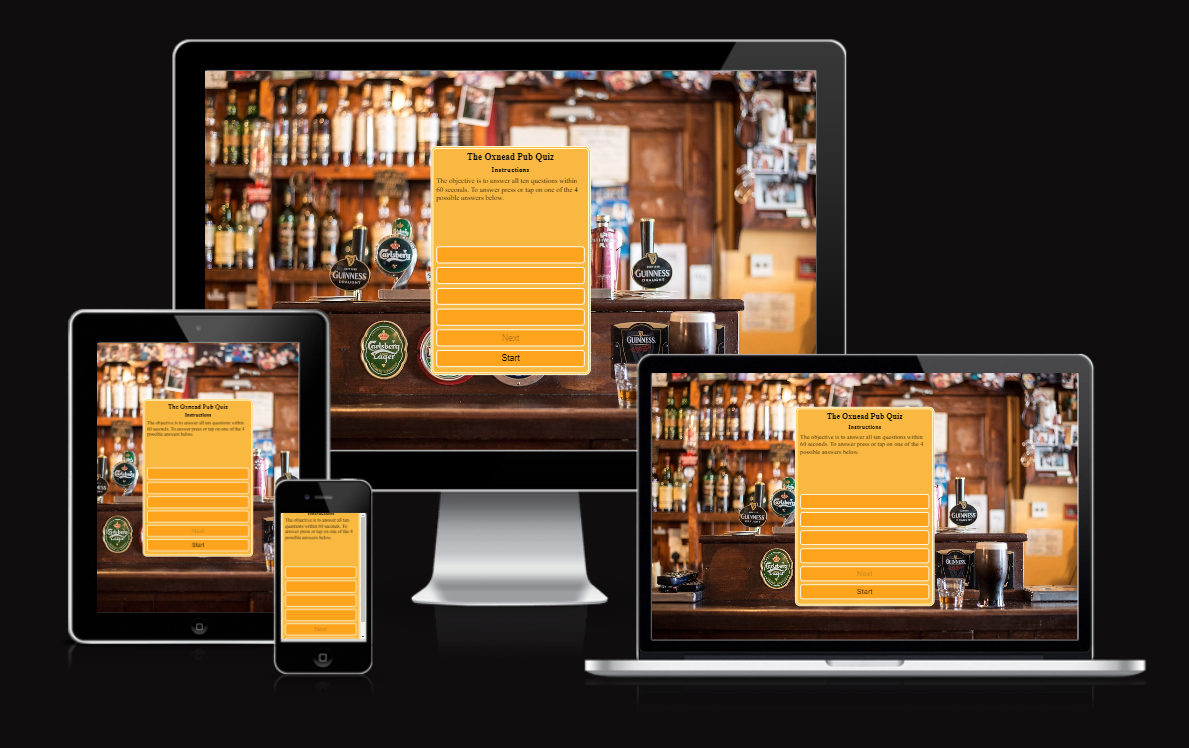
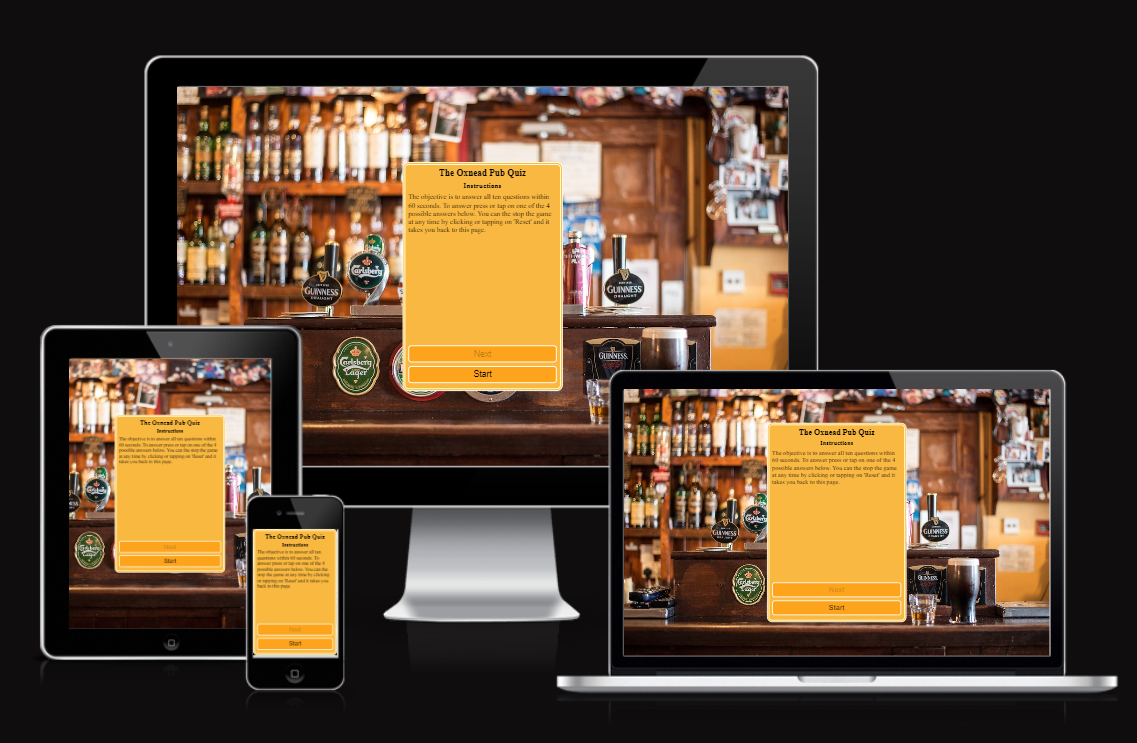
docs: update image; fix: height in style.css

diff --git a/assets/css/style.css b/assets/css/style.css
@@ -34,7 +34,7 @@ main {
     border-radius: 1rem;
     padding: .5rem;
     min-width: 280px;
-    min-height: 480px;
+    min-height: 500px;
     height: 100%;
     width: 100%;
     max-width: 420px;
